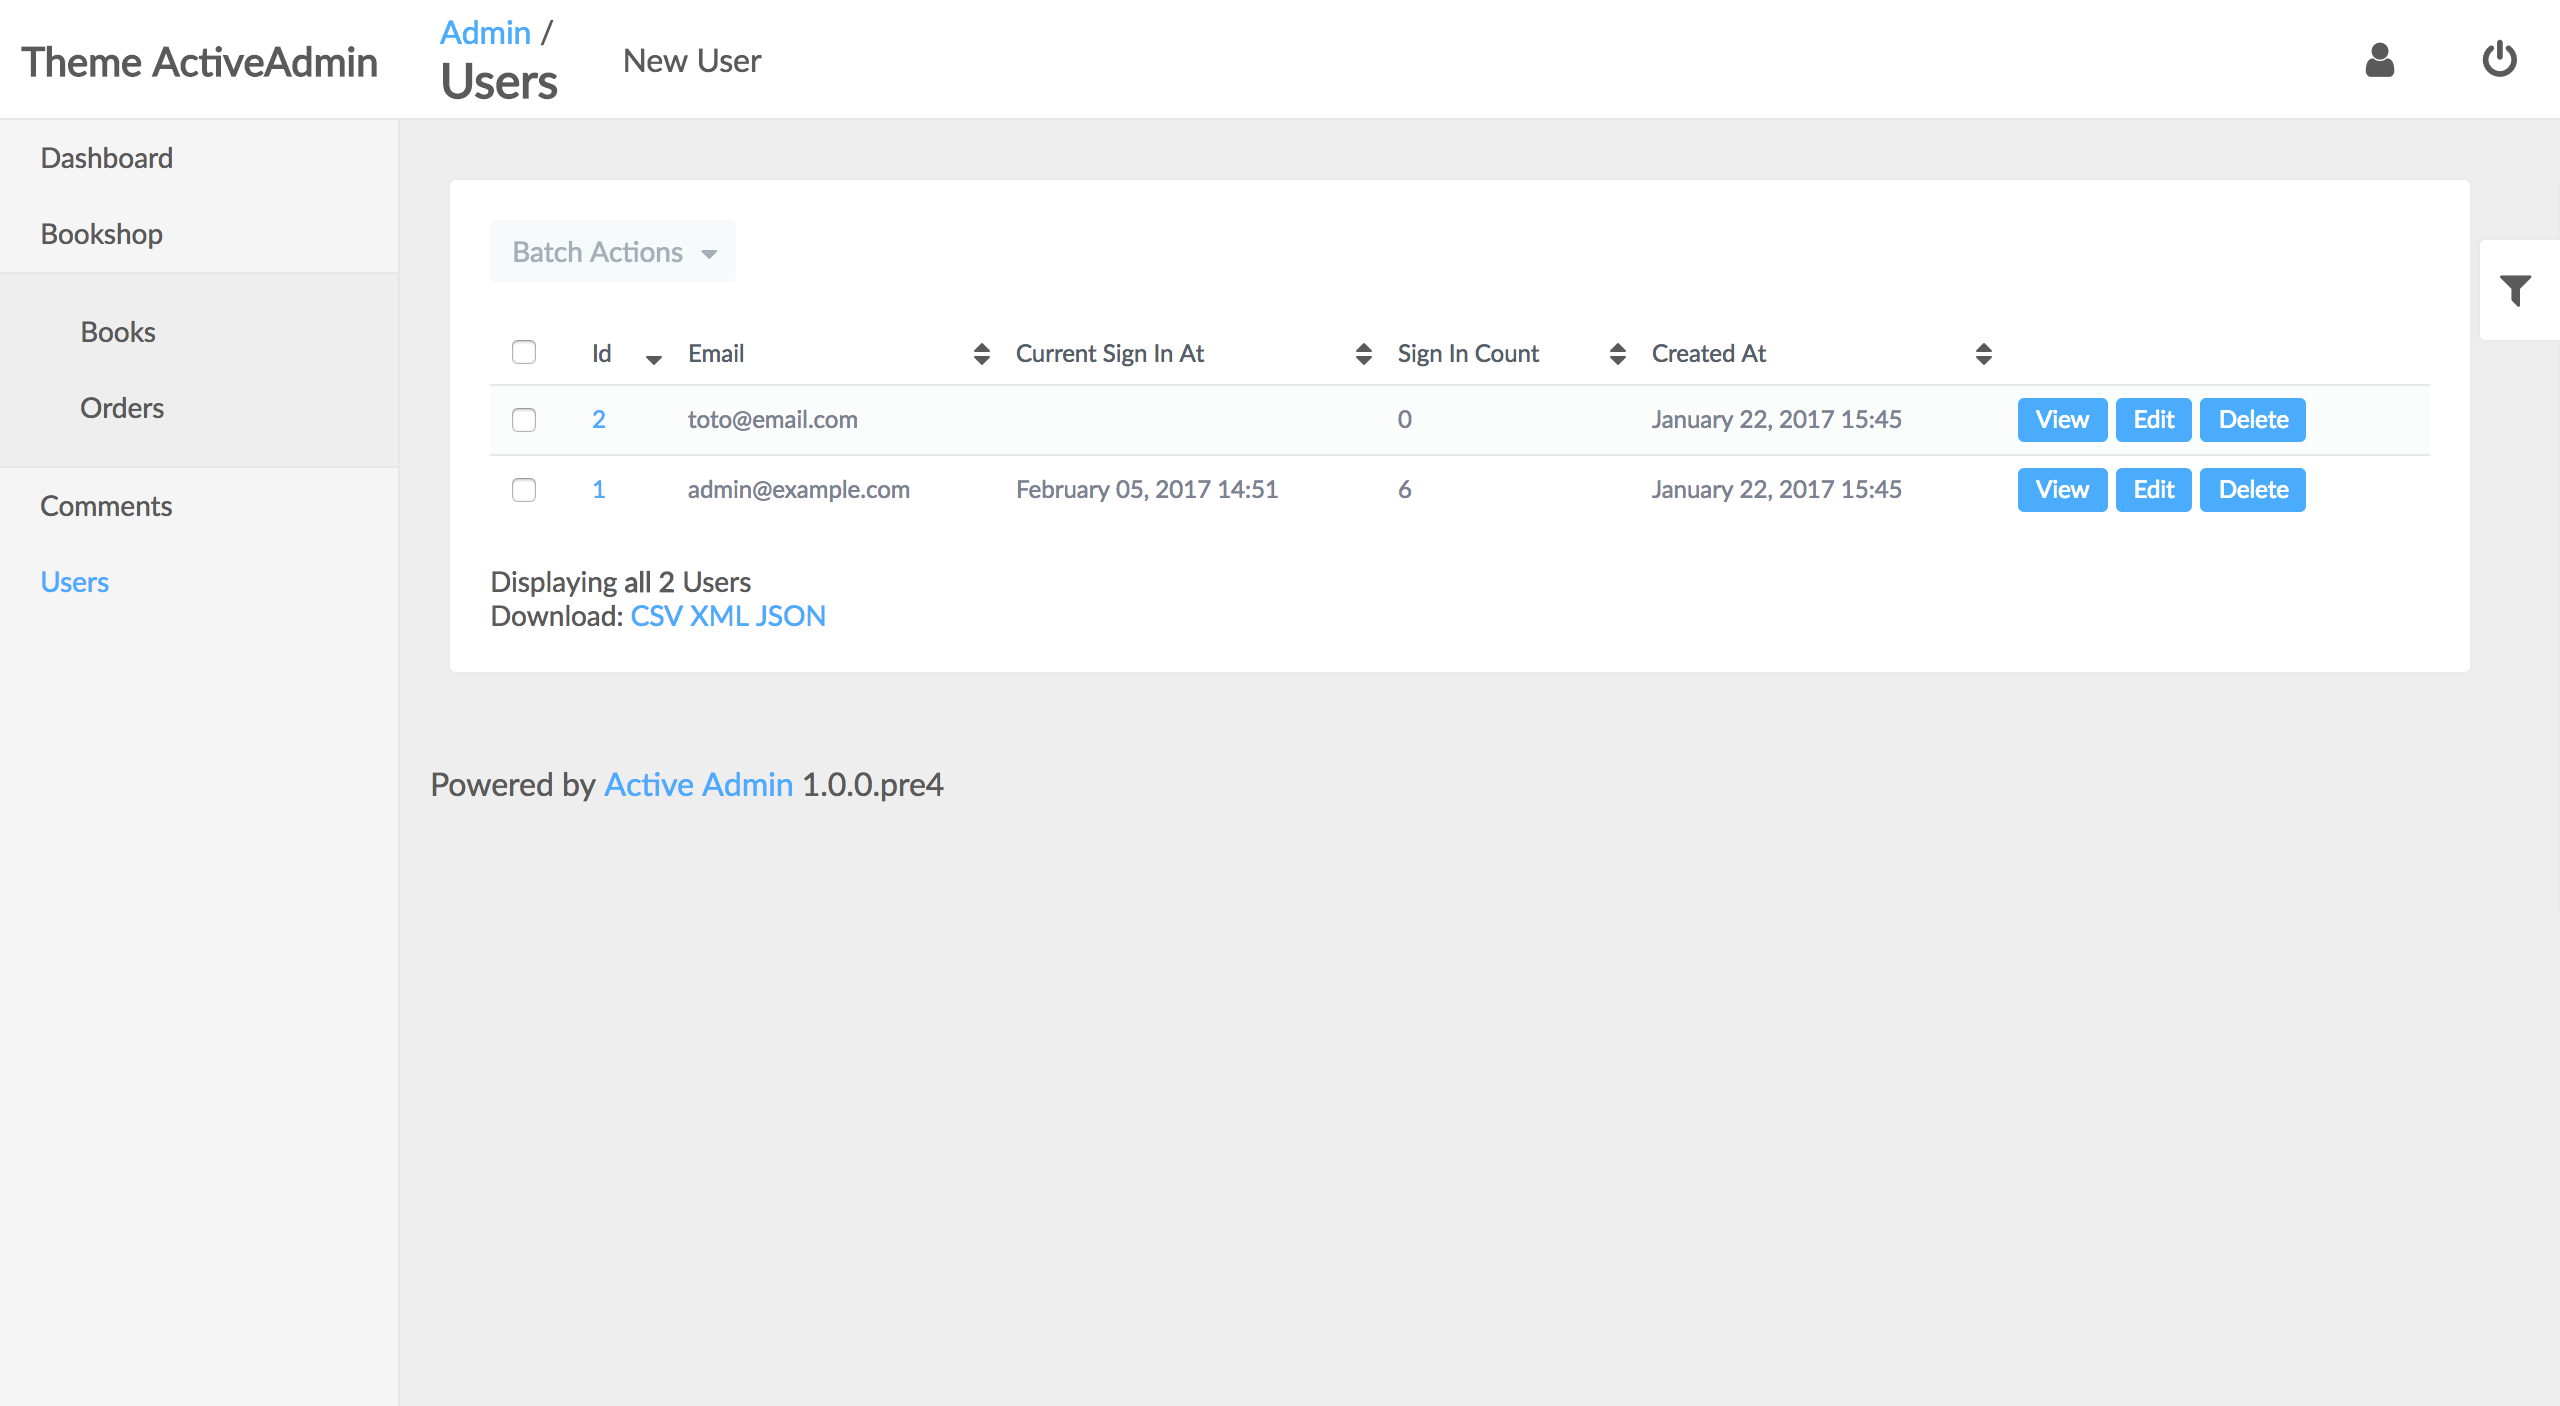
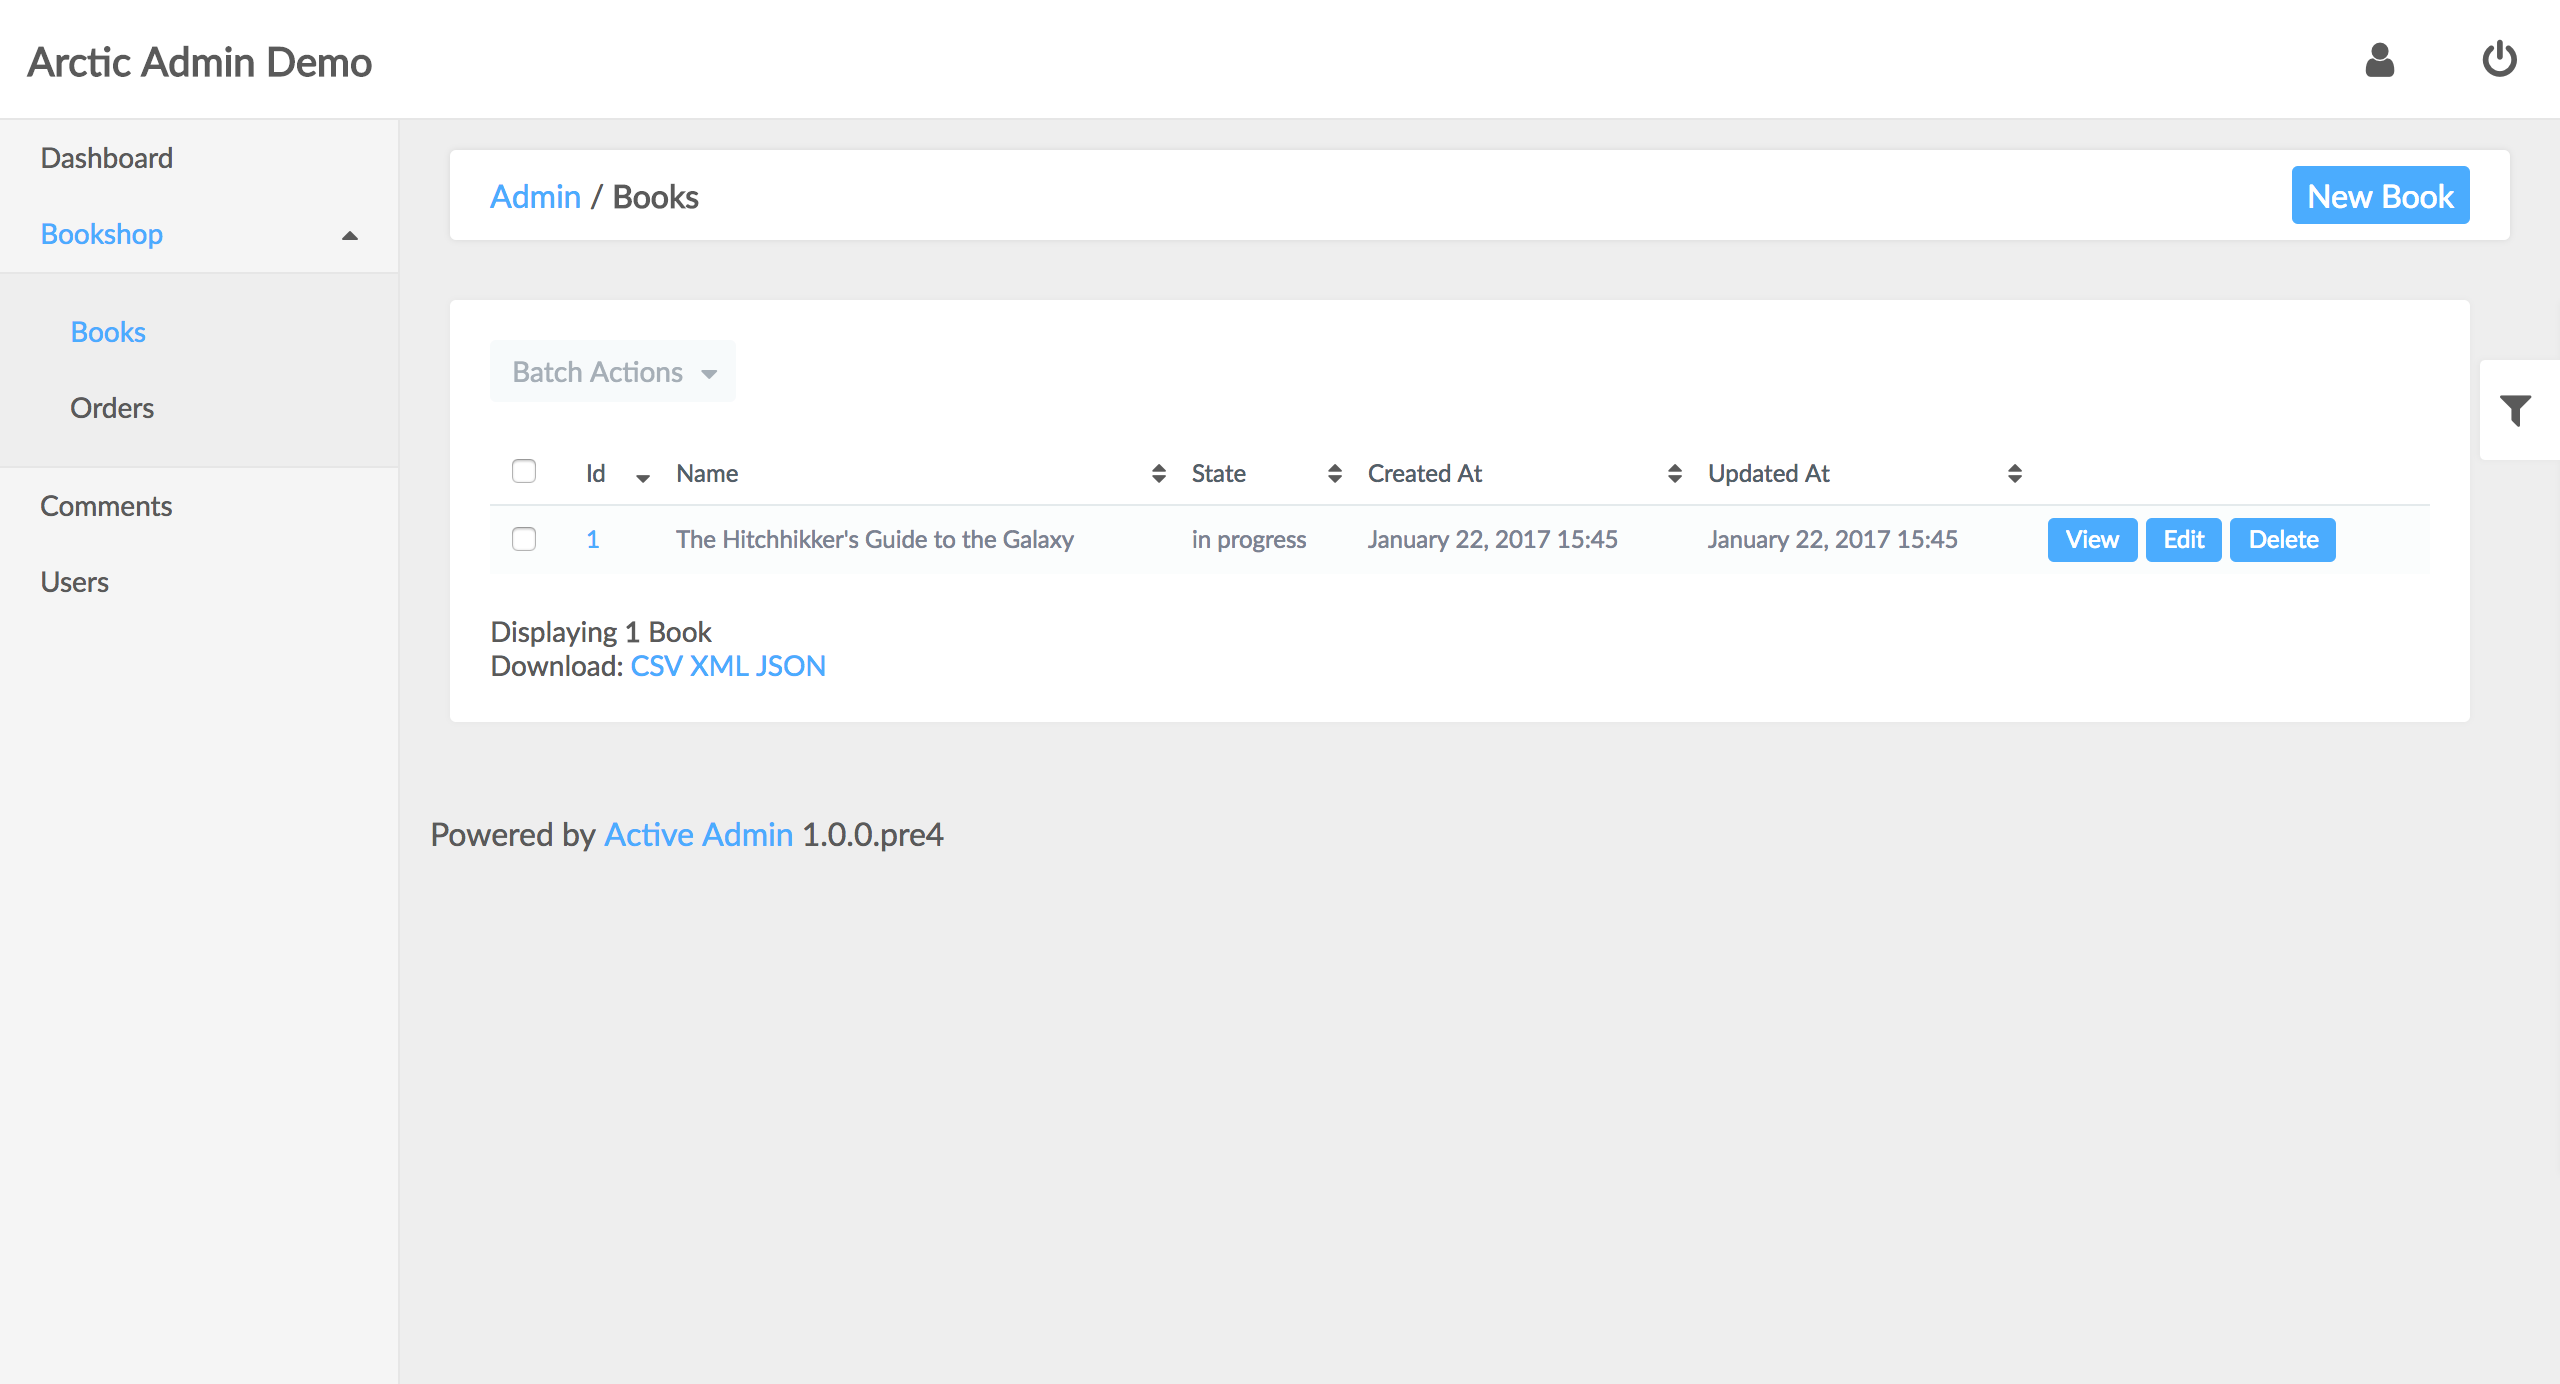
update general layout

diff --git a/app/assets/stylesheets/layouts/_header.scss b/app/assets/stylesheets/layouts/_header.scss
@@ -45,6 +45,37 @@
     right: 0;
     z-index: 3;
     text-align: right;
+    background-color: $header-background;
+    border-bottom: 1px solid $header-border-color;
+    width: $screen-header-width;
+
+    @media screen and (min-width: $sm-width) {
+      &:before {
+        @include icon("\f0c9");
+
+        display: inline;
+        visibility: visible;
+        cursor: pointer;
+        position: absolute;
+        top: 0;
+        left: 0;
+        color: $text-color;
+        padding: 20px 0;
+        text-align: center;
+        width: 40px;
+        font-size: 20px;
+      }
+    }
+
+    @media screen and (min-width: $md-width) {
+      &:before {
+        display: none;
+      }
+    }
+
+    @media screen and (min-width: $lg-width) {
+      width: $lg-screen-header-width;
+    }
 
     li {
       display: inline-block;
@@ -115,76 +146,36 @@
 }
 
 #title_bar {
-  height: 60px;
-  width: $screen-header-width;
-  background-color: $header-background;
-  position: fixed;
-  top: 0;
-  left: $header-width;
-  border-bottom: 1px solid $header-border-color;
-  z-index: 2;
-
-  @media screen and (min-width: $sm-width) {
-    padding: 0 20px 0 50px;
-
-    &:before {
-      @include icon("\f0c9");
-
-      display: inline;
-      visibility: visible;
-      cursor: pointer;
-      position: absolute;
-      top: 0;
-      left: 0;
-      color: $text-color;
-      padding: 20px 0;
-      text-align: center;
-      width: 40px;
-      font-size: 20px;
-    }
-  }
+  background-color: #fff;
+  box-shadow: 0 0 4px 0 rgba(0, 0, 0, 0.1);
+  margin: 15px 0 0 0;
+  padding: 8px 10px;
+  @include clear-fix();
 
   @media screen and (min-width: $md-width) {
-    padding: 0 20px;
-
-    &:before {
-      display: none;
-    }
-  }
-
-  @media screen and (min-width: $lg-width) {
-    width: $lg-screen-header-width;
-    left: $lg-header-width;
+    padding: 8px 20px;
+    border-radius: 3px;
+    margin: 15px 25px 0 25px;
   }
 
   #titlebar_left {
-    padding-top: 6px;
     display: inline-block;
     float: left;
+    line-height: 29px;
 
-    h2:nth-child(1) {
-      line-height: 48px;
+    h2 {
+      display: inline-block;
+      font-size: 16px;
     }
   }
 
   #titlebar_right {
     display: inline-block;
-    margin-left: 20px;
+    float: right;
 
     .action_item a {
-      color: $text-color;
-      display: inline-block;
-      @include transition-button();
-      padding: 20px 12px;
-      float: left;
-
-      &:hover {
-        background-color: $header-nav-action-hover-background;
-      }
-
-      &:active {
-        background-color: $header-nav-action-active-background;
-      }
+      @include primary-button($primary-color, #fff);
+      padding: 5px 8px;
     }
   }
 

diff --git a/app/assets/javascripts/arctic_admin.js b/app/assets/javascripts/arctic_admin.js
@@ -23,7 +23,7 @@ $(function() {
   });
 
   var animationDone = true;
-  $('#title_bar').click(function (e) {
+  $('#utility_nav').click(function (e) {
     if ($(window).width() < 960) {
       var position = $(this).position();
       var tabs = $('#tabs');
